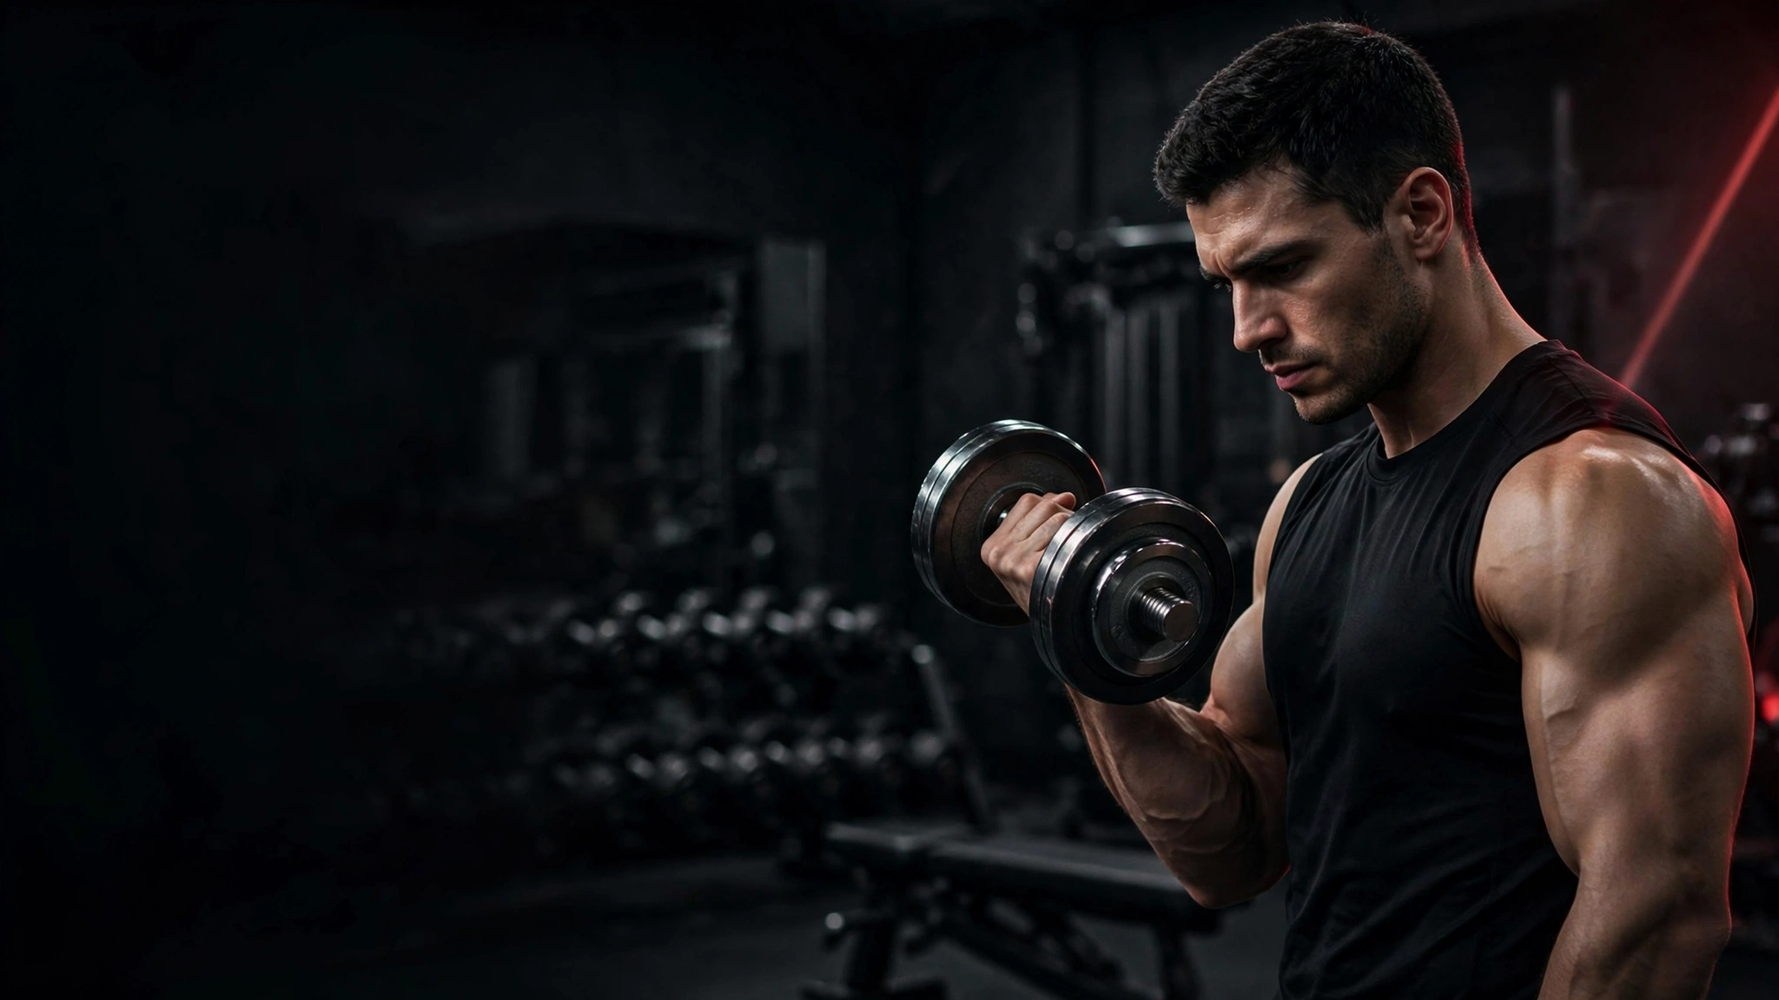
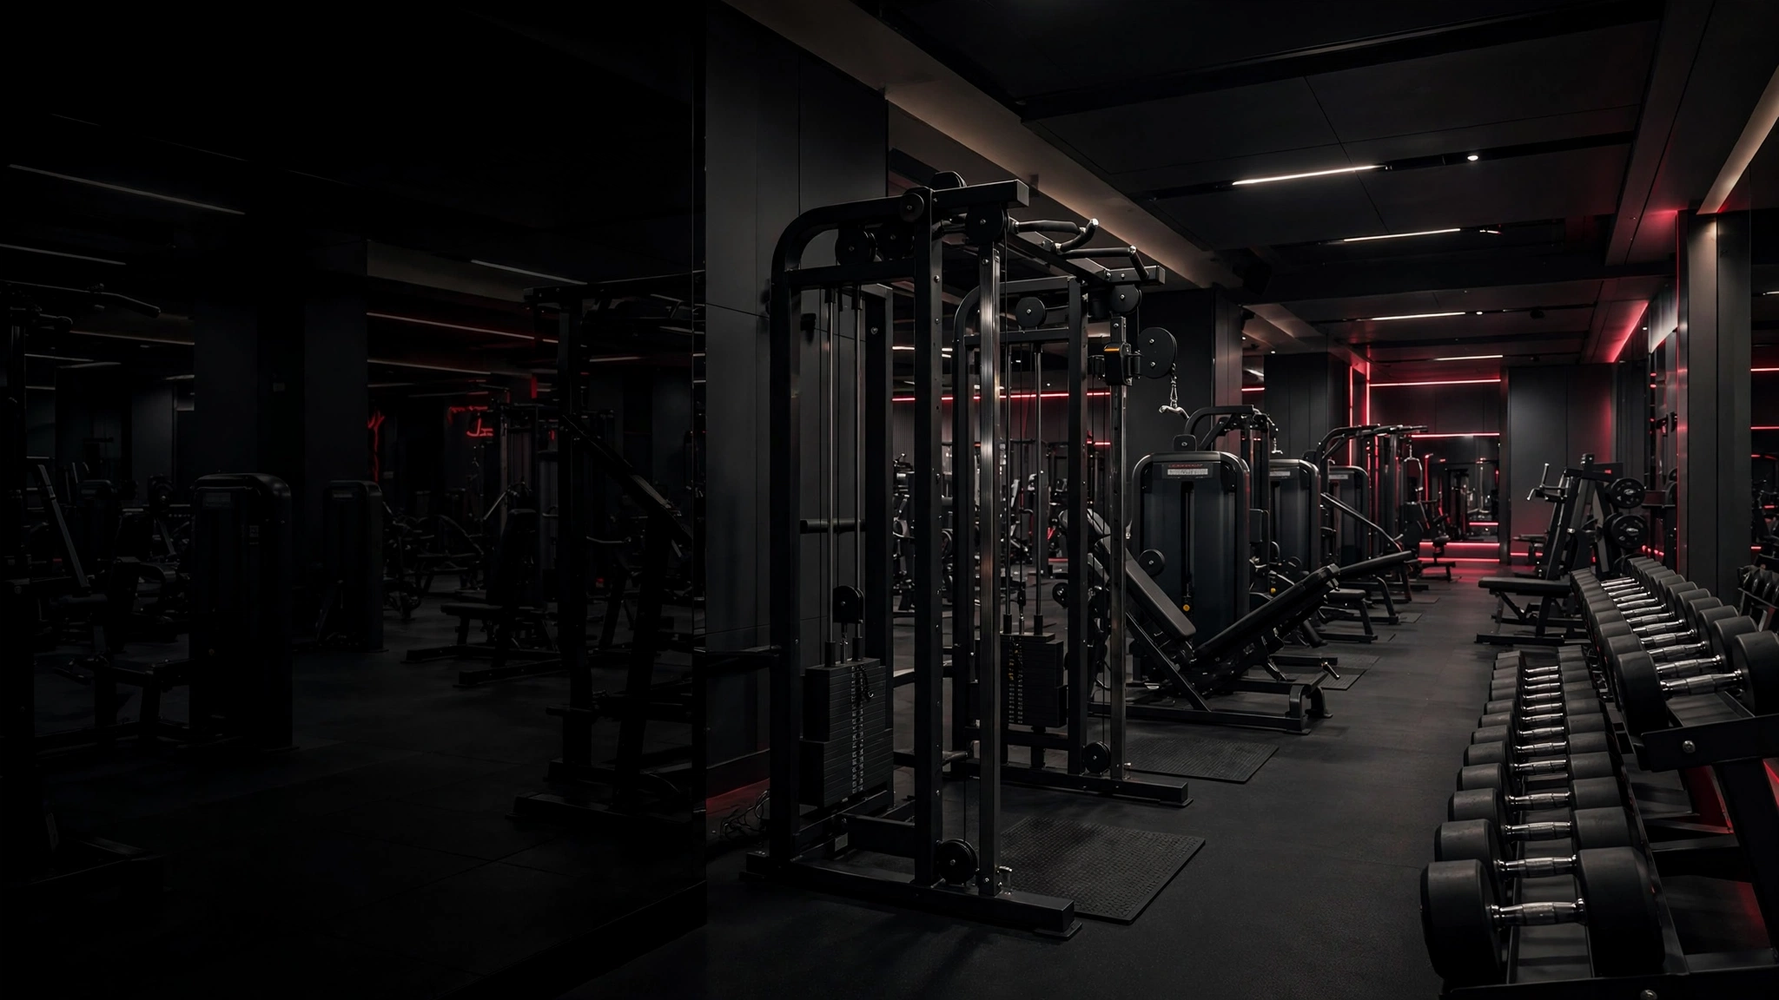
Adjust student mobile home header bars and remove specified dashboard blocks

diff --git a/frontend/src/nutrigym.tsx b/frontend/src/nutrigym.tsx
@@ -257,9 +257,6 @@ function StudentHome({student,onGo,initialHome}:{student:any;onGo:(page:string)=
   <section className="student-welcome-hero student-fitness-hero student-reference-hero"><div className="student-welcome-copy"><span className="student-eyebrow">{greeting}, {student.name.split(' ')[0]}!</span><h1>Que bom ter você de volta!</h1><p>Disciplina hoje,<br className="student-reference-break"/> resultados amanhã.</p><button className="student-primary" onClick={()=>onGo('workouts')}><Dumbbell size={17}/> Ver meus treinos <ChevronRight size={17}/></button></div><div className="student-welcome-facts"><div><strong>{home.workouts?.length||0}</strong><span>treinos liberados</span></div><div><strong>{home.appointments?.length||0}</strong><span>compromissos</span></div></div></section>
   {nutrition?.profile&&<section className="student-reference-progress" aria-label="Meu progresso"><h2>Meu progresso</h2><div className="student-reference-progress-body"><div className="student-reference-activity"><span className="student-reference-activity-icon"><Activity size={25}/></span><div><strong>{recent.length} registro{recent.length===1?'':'s'}</strong><small>treinos concluídos</small></div></div><div className="student-reference-metric"><span className="student-reference-metric-icon water">💧</span><div><strong>{waterLiters} L / {waterGoalLiters} L</strong><small>hidratação</small><span className="student-reference-track"><i style={{width:`${waterPercent}%`}}/></span></div></div><div className="student-reference-metric"><span className="student-reference-metric-icon meals">🍴</span><div><strong>{meals}</strong><small>refeições registradas hoje</small></div></div></div></section>}
   <section className="student-reference-shortcuts" aria-label="Acesso rápido">{shortcuts.map(item=><button key={item.id} type="button" onClick={()=>onGo(item.id)}><span className={`student-reference-shortcut-icon ${item.id}`}>{item.icon}</span><span><b>{item.title}</b><small>{item.text}</small></span><ChevronRight size={19}/></button>)}</section>
-  <div className="student-reference-motivation"><span className="student-reference-trophy">🏆</span><span><b>Sua evolução<br/>é o nosso objetivo!</b></span><Activity size={36}/></div>
-  <section className="student-reference-workout student-card"><div className="student-card-title"><div><span className="student-eyebrow">TREINO</span><h2>Próxima sessão</h2></div><button onClick={()=>onGo('workouts')}>Ver todos <ChevronRight size={15}/></button></div>{first?<><div className="student-next-workout-title"><span className="student-workout-symbol"><Dumbbell size={22}/></span><div><strong>{first.name}</strong><p>{(first.exercises||[]).length} exercício{(first.exercises||[]).length===1?'':'s'}{first.objective?` · ${studentFacingWorkoutText(first.objective)}`:''}{first.review_on?` · revisado ${brDate(first.review_on)}`:''}</p></div></div><button className="student-primary" onClick={()=>onGo('workouts')}>Abrir treino <ChevronRight size={17}/></button></>:<div className="student-empty">Nenhum treino foi liberado ainda. Quando a academia publicar uma sessão, ela aparecerá aqui.</div>}</section>
-  <section className="student-dashboard-grid student-reference-secondary"><div className="student-card student-dashboard-appointment"><div className="student-card-title"><div><span className="student-eyebrow">AGENDA</span><h2>Próximo compromisso</h2></div><button onClick={()=>onGo('schedule')}>Agenda <ChevronRight size={15}/></button></div>{home.appointments?.[0]?<div className="student-appointment-feature"><CalendarDays size={21}/><div><strong>{home.appointments[0].title}</strong><p>{new Date(home.appointments[0].starts_at).toLocaleString('pt-BR',{dateStyle:'medium',timeStyle:'short'})}</p>{home.appointments[0].notes&&<small>{home.appointments[0].notes}</small>}</div></div>:<div className="student-empty">Nenhum compromisso próximo cadastrado.</div>}</div><div className="student-card student-dashboard-history"><div className="student-card-title"><div><span className="student-eyebrow">ATIVIDADE REGISTRADA</span><h2>Treinos recentes</h2></div><button onClick={()=>onGo('personalgym')}>Ver histórico <ChevronRight size={15}/></button></div>{recent.length?<div className="student-recent-workouts">{recent.slice(0,3).map((row:any,i:number)=><div key={row.id||`${row.completed_at}-${i}`}><span className="student-history-check">✓</span><div><strong>{row.name||'Treino concluído'}</strong><small>{brDate(row.completed_at)}</small></div></div>)}</div>:<div className="student-empty">Os treinos concluídos aparecerão aqui quando houver registros no seu histórico.</div>}</div></section>
   <section className="student-card student-announcements" id="student-announcements"><div className="student-card-title"><div><span className="student-eyebrow">DA EQUIPE DA ACADEMIA</span><h2>Comunicados</h2></div><span>{announcements.length} publicação{announcements.length===1?'':'ões'}</span></div>{announcements.length?<div className="announcement-list">{announcements.map(a=><article className="announcement-card" key={a.id}>{a.image_data&&<img src={a.image_data} alt={a.title?`Imagem do comunicado: ${a.title}`:'Imagem de comunicado da academia'} loading="lazy"/>}<div className="announcement-card-content">{a.title&&<h3>{a.title}</h3>}{a.body&&<p>{a.body}</p>}<time>{brDate(a.published_at)}</time></div></article>)}</div>:<div className="student-empty">Nenhum comunicado publicado pela academia no momento.</div>}</section>{faceOpen&&<div className="student-modal"><StudentFaceCheckin onClose={()=>setFaceOpen(false)} onDone={message=>{setFaceOpen(false);alert(message)}}/></div>}
  </main>
 }
@@ -290,5 +287,5 @@ function PersonalChat({firstName,onClose,initialText='',onAction=()=>{} }:{first
 
 function PersonalGymView({student}:{student:any}){const [data,setData]=useState<any>(null),[session,setSession]=useState<any>(null),[chatOpen,setChatOpen]=useState(false),[initialText,setInitialText]=useState('');const load=(actionResult?:any)=>studentGet<any>('/student-api/personalgym').then(result=>{const fresh=actionResult?.todayWorkout?{...result,todayWorkout:actionResult.todayWorkout}:result;setData(fresh);if(fresh.proactive_event)setChatOpen(true)}).catch(()=>{});useEffect(()=>{load()},[]);const openChat=(text='')=>{setInitialText(text);setChatOpen(true)};if(session)return <WorkoutSession workout={session} onClose={()=>setSession(null)} onDone={(result)=>{setSession(null);load();if(result?.assistant_event){setInitialText('');setChatOpen(true)}}}/>;if(!data)return <div className="student-loading">Carregando seu Personal Gym…</div>;const workout=data.todayWorkout,completed=data.workoutHistory?.length||0,last=data.workoutHistory?.[0];const isCardio=(e:any)=>/(aquec|cardio|esteira|bicicleta|elíptico|eliptico|caminhada|corrida)/i.test(`${e.name||''} ${e.muscle_group||''}`);const exerciseLabel=(e:any,i:number)=>{if(!isCardio(e))return '';if(i===0)return 'Aquecimento · cardio inicial';if(i===((workout?.exercises?.length||1)-1))return 'Cardio · finalização';return 'Cardio do treino'};return <main className="student-page personal-page"><AssistantHero kind="personal" title="Personal Gym" description="Tire dúvidas, receba orientações e evolua ainda mais com a ajuda do nosso Personal Gym." context={workout?`Seu treino de hoje: ${workout.name}`:'Seu treino e histórico continuam disponíveis por aqui.'} onStart={openChat} suggestions={[{label:'Melhorar execução',text:'Explique como melhorar a execução do meu exercício.'},{label:'Descanso e ritmo',text:'Como devo controlar o descanso e o ritmo hoje?'},{label:'Minha evolução',text:'Analise minha evolução nos treinos.'}]}/><p className="student-assistant-disclaimer">As orientações são gerais e não substituem a avaliação de um profissional de educação física.</p><section className="student-card personal-today-card"><div className="student-card-title"><div><span className="student-eyebrow">Hoje</span><h2>{workout?.name||'Nenhum treino do dia'}</h2><p>{workout?'Exercícios e execução definidos pela academia.':'Quando a academia liberar um treino, ele aparecerá aqui.'}</p></div>{workout&&<button className="student-primary personal-start-button" onClick={()=>setSession(workout)}>Começar treino →</button>}</div>{workout?.exercises?.length?<div className="personal-exercise-list">{workout.exercises.map((e:any,i:number)=><div className="personal-exercise-row" key={e.id}><b>{String(i+1).padStart(2,'0')}</b><ExerciseIllustration exercise={e}/><div><strong>{e.name}</strong>{exerciseLabel(e,i)&&<em className="personal-exercise-badge">{exerciseLabel(e,i)}</em>}<span>{e.muscle_group||'Exercício'} · {e.sets||'—'} séries · {e.reps||'—'} repetições</span><small>{e.equipment||'Equipamento conforme treino'}</small></div></div>)}</div>:<div className="student-empty">Seu treino aparecerá aqui assim que for publicado pela academia.</div>}</section><section className="student-card personal-history"><div className="student-card-title"><h2>Histórico recente</h2><button className="personal-history-analyze" onClick={()=>openChat('Mostre minha evolução recente nos treinos.')}>📈 Analisar evolução</button></div>{data.workoutHistory?.length?<div className="personal-history-list">{data.workoutHistory.slice(0,6).map((x:any,i:number)=><div key={i}><span>{brDate(x.completed_at)}</span><strong>{x.name}</strong><small>Treino concluído</small></div>)}</div>:<div className="student-empty">Ainda não há treinos concluídos registrados.</div>}</section>{chatOpen&&<div className="nutri-modal personal-chat-modal"><PersonalChat firstName={student.name.split(' ')[0]} initialText={initialText} onAction={load} onClose={()=>{setChatOpen(false);setInitialText('')}}/></div>}</main>}
 function StudentUpgradeNotice({feature}:{feature:string}){const labels:any={workouts:'Treinos',personalgym:'PersonalGym',nutrigym:'NutriGym',schedule:'Agenda'};return <main className="student-page"><section className="student-card" style={{maxWidth:700,margin:'32px auto',textAlign:'center',padding:32}}><h1>Função disponível em outro plano</h1><p className="student-muted">{labels[feature]||feature} não está incluído no plano atual da academia. Peça à academia para atualizar o plano para liberar este recurso.</p></section></main>}
-export function StudentPortal({initialPage='home'}:{initialPage?:string}){const demo=typeof window!=='undefined'&&new URLSearchParams(window.location.search).has('demo');const [student,setStudent]=useState<any>(demo?demoStudent:null),[homeData,setHomeData]=useState<any>(null),[loading,setLoading]=useState(!demo&&Boolean(studentToken())),[loadError,setLoadError]=useState(''),[authRetry,setAuthRetry]=useState(0),[page,setPageState]=useState(initialPage);useEffect(()=>{const previous=document.title;document.title='Portal do aluno — MultiGym';return()=>{document.title=previous}},[]);const go=(next:string)=>{setPageState(next);const routes:any={home:'/aluno',personalgym:'/aluno/personalgym',nutrigym:'/aluno/nutrigym',profile:'/aluno/perfil',workouts:'/aluno/treinos',schedule:'/aluno/agenda',subscription:'/aluno/mensalidade'};if(window.history?.pushState)window.history.pushState({},'',routes[next]||'/aluno')};useEffect(()=>{const onPop=()=>{const path=window.location.pathname.replace(/\/+$/,'')||'/aluno',params=new URLSearchParams(window.location.search),section=params.get('section');const routes:any={'/aluno':'home','/aluno/personalgym':'personalgym','/aluno/nutrigym':'nutrigym','/aluno/perfil':'profile','/aluno/treinos':'workouts','/aluno/agenda':'schedule','/aluno/mensalidade':'subscription'};setPageState(routes[path]||((path==='/aluno'&&params.has('nutrigym'))?'nutrigym':section||'home'))};window.addEventListener('popstate',onPop);return()=>window.removeEventListener('popstate',onPop)},[]);useEffect(()=>{if(!studentToken()){setLoading(false);return}let alive=true;setLoading(true);setLoadError('');const timeout=window.setTimeout(()=>{if(alive){setLoadError('A conexão está demorando. Verifique sua internet e tente novamente.');setLoading(false)}},15000);studentGet<any>('/student-api/home').then(r=>{if(alive){setStudent(r.student);setHomeData(r);setLoadError('')}}).catch((error:any)=>{if(alive)setLoadError(error?.message||'Não foi possível carregar o portal. Tente novamente.')}).finally(()=>{window.clearTimeout(timeout);if(alive)setLoading(false)});return()=>{alive=false;window.clearTimeout(timeout)}},[authRetry]);if(loading)return <div className="student-loading">Carregando seu portal…</div>;if(!student&&loadError)return <div className="student-loading"><p>{loadError}</p><button className="student-primary" onClick={()=>{setLoadError('');setAuthRetry(x=>x+1)}}>Tentar novamente</button><button className="student-secondary" onClick={()=>{localStorage.removeItem('multigym_student_token');setLoadError('');setStudent(null)}}>Voltar ao login</button></div>;if(!student)return <StudentLogin onLogin={setStudent}/>;const studentTier=String(student.planTier||'premium'),studentLocked=(feature:string)=>studentTier==='basic'&&['workouts','personalgym','nutrigym','schedule'].includes(feature),lockedFeature=page==='workouts'?'workouts':page==='personalgym'?'personalgym':page==='nutrigym'?'nutrigym':page==='schedule'?'schedule':null;const logout=async()=>{try{await studentApi('/student-api/logout',{method:'POST'})}catch{}localStorage.removeItem('multigym_student_token');setStudent(null)};const navItems:[string,string,React.ReactNode][]=[['home','Início',<House size={19}/>],['workouts','Treinos',<Dumbbell size={19}/>],['personalgym','Personal Gym',<Dumbbell size={19}/>],['nutrigym','NutriGym',<Apple size={19}/>],['subscription','Mensalidade',<CreditCard size={19}/>],['profile','Perfil',<UserRound size={19}/>]];return <div className="student-app"><header className="student-header"><button className="student-logo" onClick={()=>go('home')} aria-label="Ir para o início"><img src="/logo-full-splash.png" alt="MultiGym"/><small>Portal do aluno</small></button><nav className="student-desktop-nav">{navItems.map(([id,label,icon])=><button aria-current={page===id?'page':undefined} className={page===id?'active':''} onClick={()=>go(id)} key={id}>{icon}<span>{label}</span></button>)}</nav><div className="student-header-user"><span className="student-header-avatar">{student.name.split(' ').map((x:string)=>x[0]).slice(0,2).join('').toUpperCase()}</span><span className="student-header-name">{student.name.split(' ')[0]}</span><button className="student-notifications" onClick={()=>{if(page!=='home')go('home');window.setTimeout(()=>document.getElementById('student-announcements')?.scrollIntoView({behavior:'smooth',block:'start'}),160)}} aria-label="Ver comunicados da academia"><Bell size={18}/></button><button className="student-signout" onClick={logout}><LogOut size={17}/><span>Sair</span></button></div></header>{page==='home'&&<StudentHome student={student} onGo={go} initialHome={homeData}/>} {page==='magic-mirror'&&<MagicMirror student={student} onClose={()=>go('home')}/>} {lockedFeature&&studentLocked(lockedFeature)?<StudentUpgradeNotice feature={lockedFeature}/>:<>{page==='workouts'&&<StudentWorkouts student={student}/>} {page==='personalgym'&&<PersonalGymView student={student}/>} {page==='schedule'&&<StudentSchedule student={student}/>} {page==='nutrigym'&&<NutriGymView student={student} onLogout={logout}/>}</>}{page==='subscription'&&<StudentSubscription student={student}/>} {page==='profile'&&<StudentProfile student={student} onGo={go}/>}<nav className="student-bottom-nav" aria-label="Navegação principal">{navItems.filter(([id])=>id!=='subscription').map(([id,label,icon])=><button key={id} aria-current={page===id?'page':undefined} className={page===id?'active':''} onClick={()=>go(id)}>{icon}<span>{id==='personalgym'?'Chat IA':label}</span></button>)}</nav></div>}
+export function StudentPortal({initialPage='home'}:{initialPage?:string}){const demo=typeof window!=='undefined'&&new URLSearchParams(window.location.search).has('demo');const [student,setStudent]=useState<any>(demo?demoStudent:null),[homeData,setHomeData]=useState<any>(null),[loading,setLoading]=useState(!demo&&Boolean(studentToken())),[loadError,setLoadError]=useState(''),[authRetry,setAuthRetry]=useState(0),[page,setPageState]=useState(initialPage);useEffect(()=>{const previous=document.title;document.title='Portal do aluno — MultiGym';return()=>{document.title=previous}},[]);const go=(next:string)=>{setPageState(next);const routes:any={home:'/aluno',personalgym:'/aluno/personalgym',nutrigym:'/aluno/nutrigym',profile:'/aluno/perfil',workouts:'/aluno/treinos',schedule:'/aluno/agenda',subscription:'/aluno/mensalidade'};if(window.history?.pushState)window.history.pushState({},'',routes[next]||'/aluno')};useEffect(()=>{const onPop=()=>{const path=window.location.pathname.replace(/\/+$/,'')||'/aluno',params=new URLSearchParams(window.location.search),section=params.get('section');const routes:any={'/aluno':'home','/aluno/personalgym':'personalgym','/aluno/nutrigym':'nutrigym','/aluno/perfil':'profile','/aluno/treinos':'workouts','/aluno/agenda':'schedule','/aluno/mensalidade':'subscription'};setPageState(routes[path]||((path==='/aluno'&&params.has('nutrigym'))?'nutrigym':section||'home'))};window.addEventListener('popstate',onPop);return()=>window.removeEventListener('popstate',onPop)},[]);useEffect(()=>{if(!studentToken()){setLoading(false);return}let alive=true;setLoading(true);setLoadError('');const timeout=window.setTimeout(()=>{if(alive){setLoadError('A conexão está demorando. Verifique sua internet e tente novamente.');setLoading(false)}},15000);studentGet<any>('/student-api/home').then(r=>{if(alive){setStudent(r.student);setHomeData(r);setLoadError('')}}).catch((error:any)=>{if(alive)setLoadError(error?.message||'Não foi possível carregar o portal. Tente novamente.')}).finally(()=>{window.clearTimeout(timeout);if(alive)setLoading(false)});return()=>{alive=false;window.clearTimeout(timeout)}},[authRetry]);if(loading)return <div className="student-loading">Carregando seu portal…</div>;if(!student&&loadError)return <div className="student-loading"><p>{loadError}</p><button className="student-primary" onClick={()=>{setLoadError('');setAuthRetry(x=>x+1)}}>Tentar novamente</button><button className="student-secondary" onClick={()=>{localStorage.removeItem('multigym_student_token');setLoadError('');setStudent(null)}}>Voltar ao login</button></div>;if(!student)return <StudentLogin onLogin={setStudent}/>;const studentTier=String(student.planTier||'premium'),studentLocked=(feature:string)=>studentTier==='basic'&&['workouts','personalgym','nutrigym','schedule'].includes(feature),lockedFeature=page==='workouts'?'workouts':page==='personalgym'?'personalgym':page==='nutrigym'?'nutrigym':page==='schedule'?'schedule':null;const logout=async()=>{try{await studentApi('/student-api/logout',{method:'POST'})}catch{}localStorage.removeItem('multigym_student_token');setStudent(null)};const navItems:[string,string,React.ReactNode][]=[['home','Início',<House size={19}/>],['workouts','Treinos',<Dumbbell size={19}/>],['personalgym','Personal Gym',<Dumbbell size={19}/>],['nutrigym','NutriGym',<Apple size={19}/>],['subscription','Mensalidade',<CreditCard size={19}/>],['profile','Perfil',<UserRound size={19}/>]];return <div className="student-app"><header className="student-header"><button className="student-logo" onClick={()=>go('home')} aria-label="Ir para o início"><img src="/logo-full-splash.png" alt="MultiGym"/><small>Portal do aluno</small></button><nav className="student-desktop-nav">{navItems.map(([id,label,icon])=><button aria-current={page===id?'page':undefined} className={page===id?'active':''} onClick={()=>go(id)} key={id}>{icon}<span>{label}</span></button>)}</nav><div className="student-header-user"><span className="student-header-name">{student.name.split(' ')[0]}</span><button className="student-notifications" onClick={()=>{if(page!=='home')go('home');window.setTimeout(()=>document.getElementById('student-announcements')?.scrollIntoView({behavior:'smooth',block:'start'}),160)}} aria-label="Ver comunicados da academia"><Bell size={18}/></button><button className="student-signout" onClick={logout}><LogOut size={17}/><span>Sair</span></button></div></header>{page==='home'&&<StudentHome student={student} onGo={go} initialHome={homeData}/>} {page==='magic-mirror'&&<MagicMirror student={student} onClose={()=>go('home')}/>} {lockedFeature&&studentLocked(lockedFeature)?<StudentUpgradeNotice feature={lockedFeature}/>:<>{page==='workouts'&&<StudentWorkouts student={student}/>} {page==='personalgym'&&<PersonalGymView student={student}/>} {page==='schedule'&&<StudentSchedule student={student}/>} {page==='nutrigym'&&<NutriGymView student={student} onLogout={logout}/>}</>}{page==='subscription'&&<StudentSubscription student={student}/>} {page==='profile'&&<StudentProfile student={student} onGo={go}/>}<nav className="student-bottom-nav" aria-label="Navegação principal">{navItems.filter(([id])=>id!=='subscription').map(([id,label,icon])=><button key={id} aria-current={page===id?'page':undefined} className={page===id?'active':''} onClick={()=>go(id)}>{icon}<span>{id==='personalgym'?'Chat IA':label}</span></button>)}</nav></div>}
 ''

diff --git a/frontend/src/styles.css b/frontend/src/styles.css
@@ -1104,3 +1104,16 @@
  .student-app .student-reference-motivation{min-height:55px}
  .student-app .student-reference-motivation>svg:nth-last-of-type(2){margin-left:auto}
 }
+
+/* Home mobile: top bar fixed alone; all page content continues scrolling below it. */
+.student-app .student-header{position:fixed!important;inset:0 0 auto!important;width:100%!important;height:60px!important;min-height:60px!important;z-index:100!important;border-radius:0!important;background:#17191d!important;border-bottom:1px solid #343840!important;box-shadow:none!important;backdrop-filter:none!important}
+.student-app .student-header:after{display:none!important}
+.student-app .student-reference-home{padding-top:60px!important}
+.student-app .student-reference-home .student-reference-hero{margin:0!important;background-image:url('/student-portal-hero.webp')!important;background-color:#111!important;background-size:cover!important;background-position:center!important;border-radius:0!important}
+.student-app .student-reference-home .student-reference-hero:after{display:none!important}
+.student-app .student-reference-home .student-reference-hero .student-welcome-copy{ text-shadow:0 1px 4px #0008 }
+.student-app .student-bottom-nav{background:#17191d!important;border-top:1px solid #343840!important;box-shadow:none!important;backdrop-filter:none!important}
+.student-app .student-reference-secondary,.student-app .student-reference-workout{display:none!important}
+.student-app .student-reference-motivation{display:none!important}
+@media(min-width:761px){.student-app .student-reference-home{padding-top:76px!important}.student-app .student-header{height:76px!important;min-height:76px!important}}
+@media(max-width:760px){.student-app .student-reference-home{padding-top:60px!important}.student-app .student-reference-home .student-reference-hero{min-height:300px!important;background-position:center!important}}
